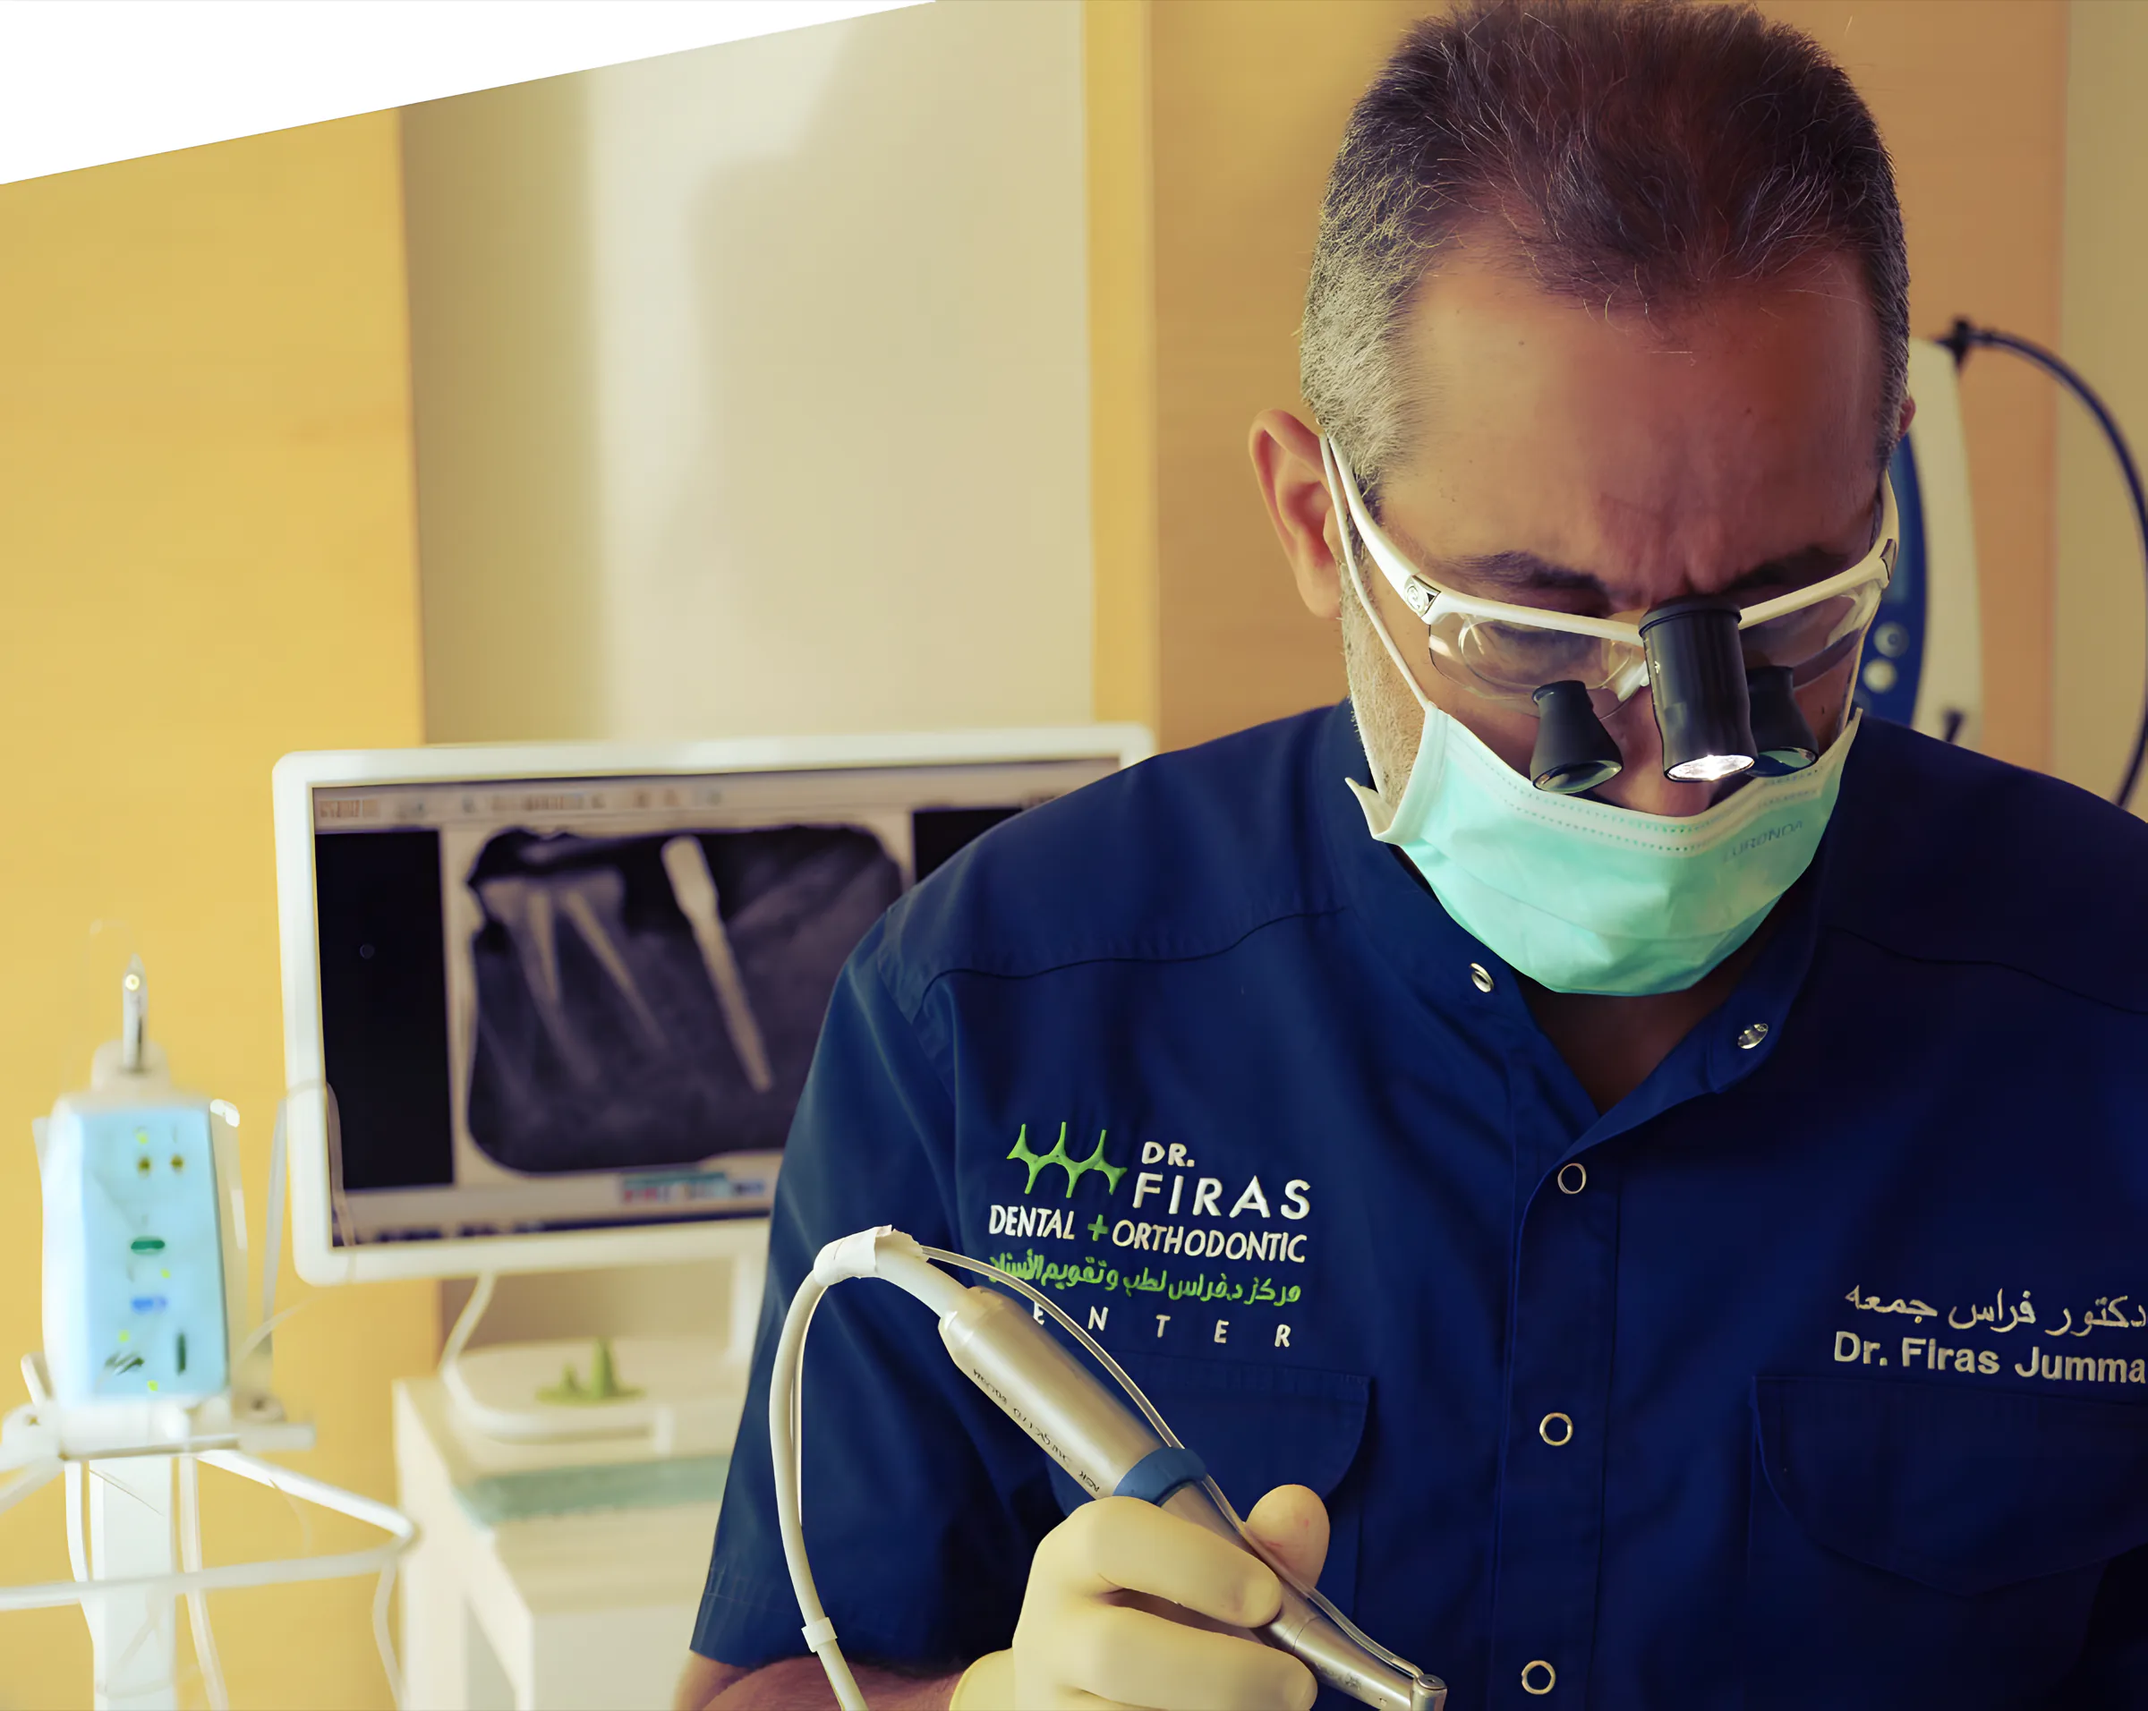
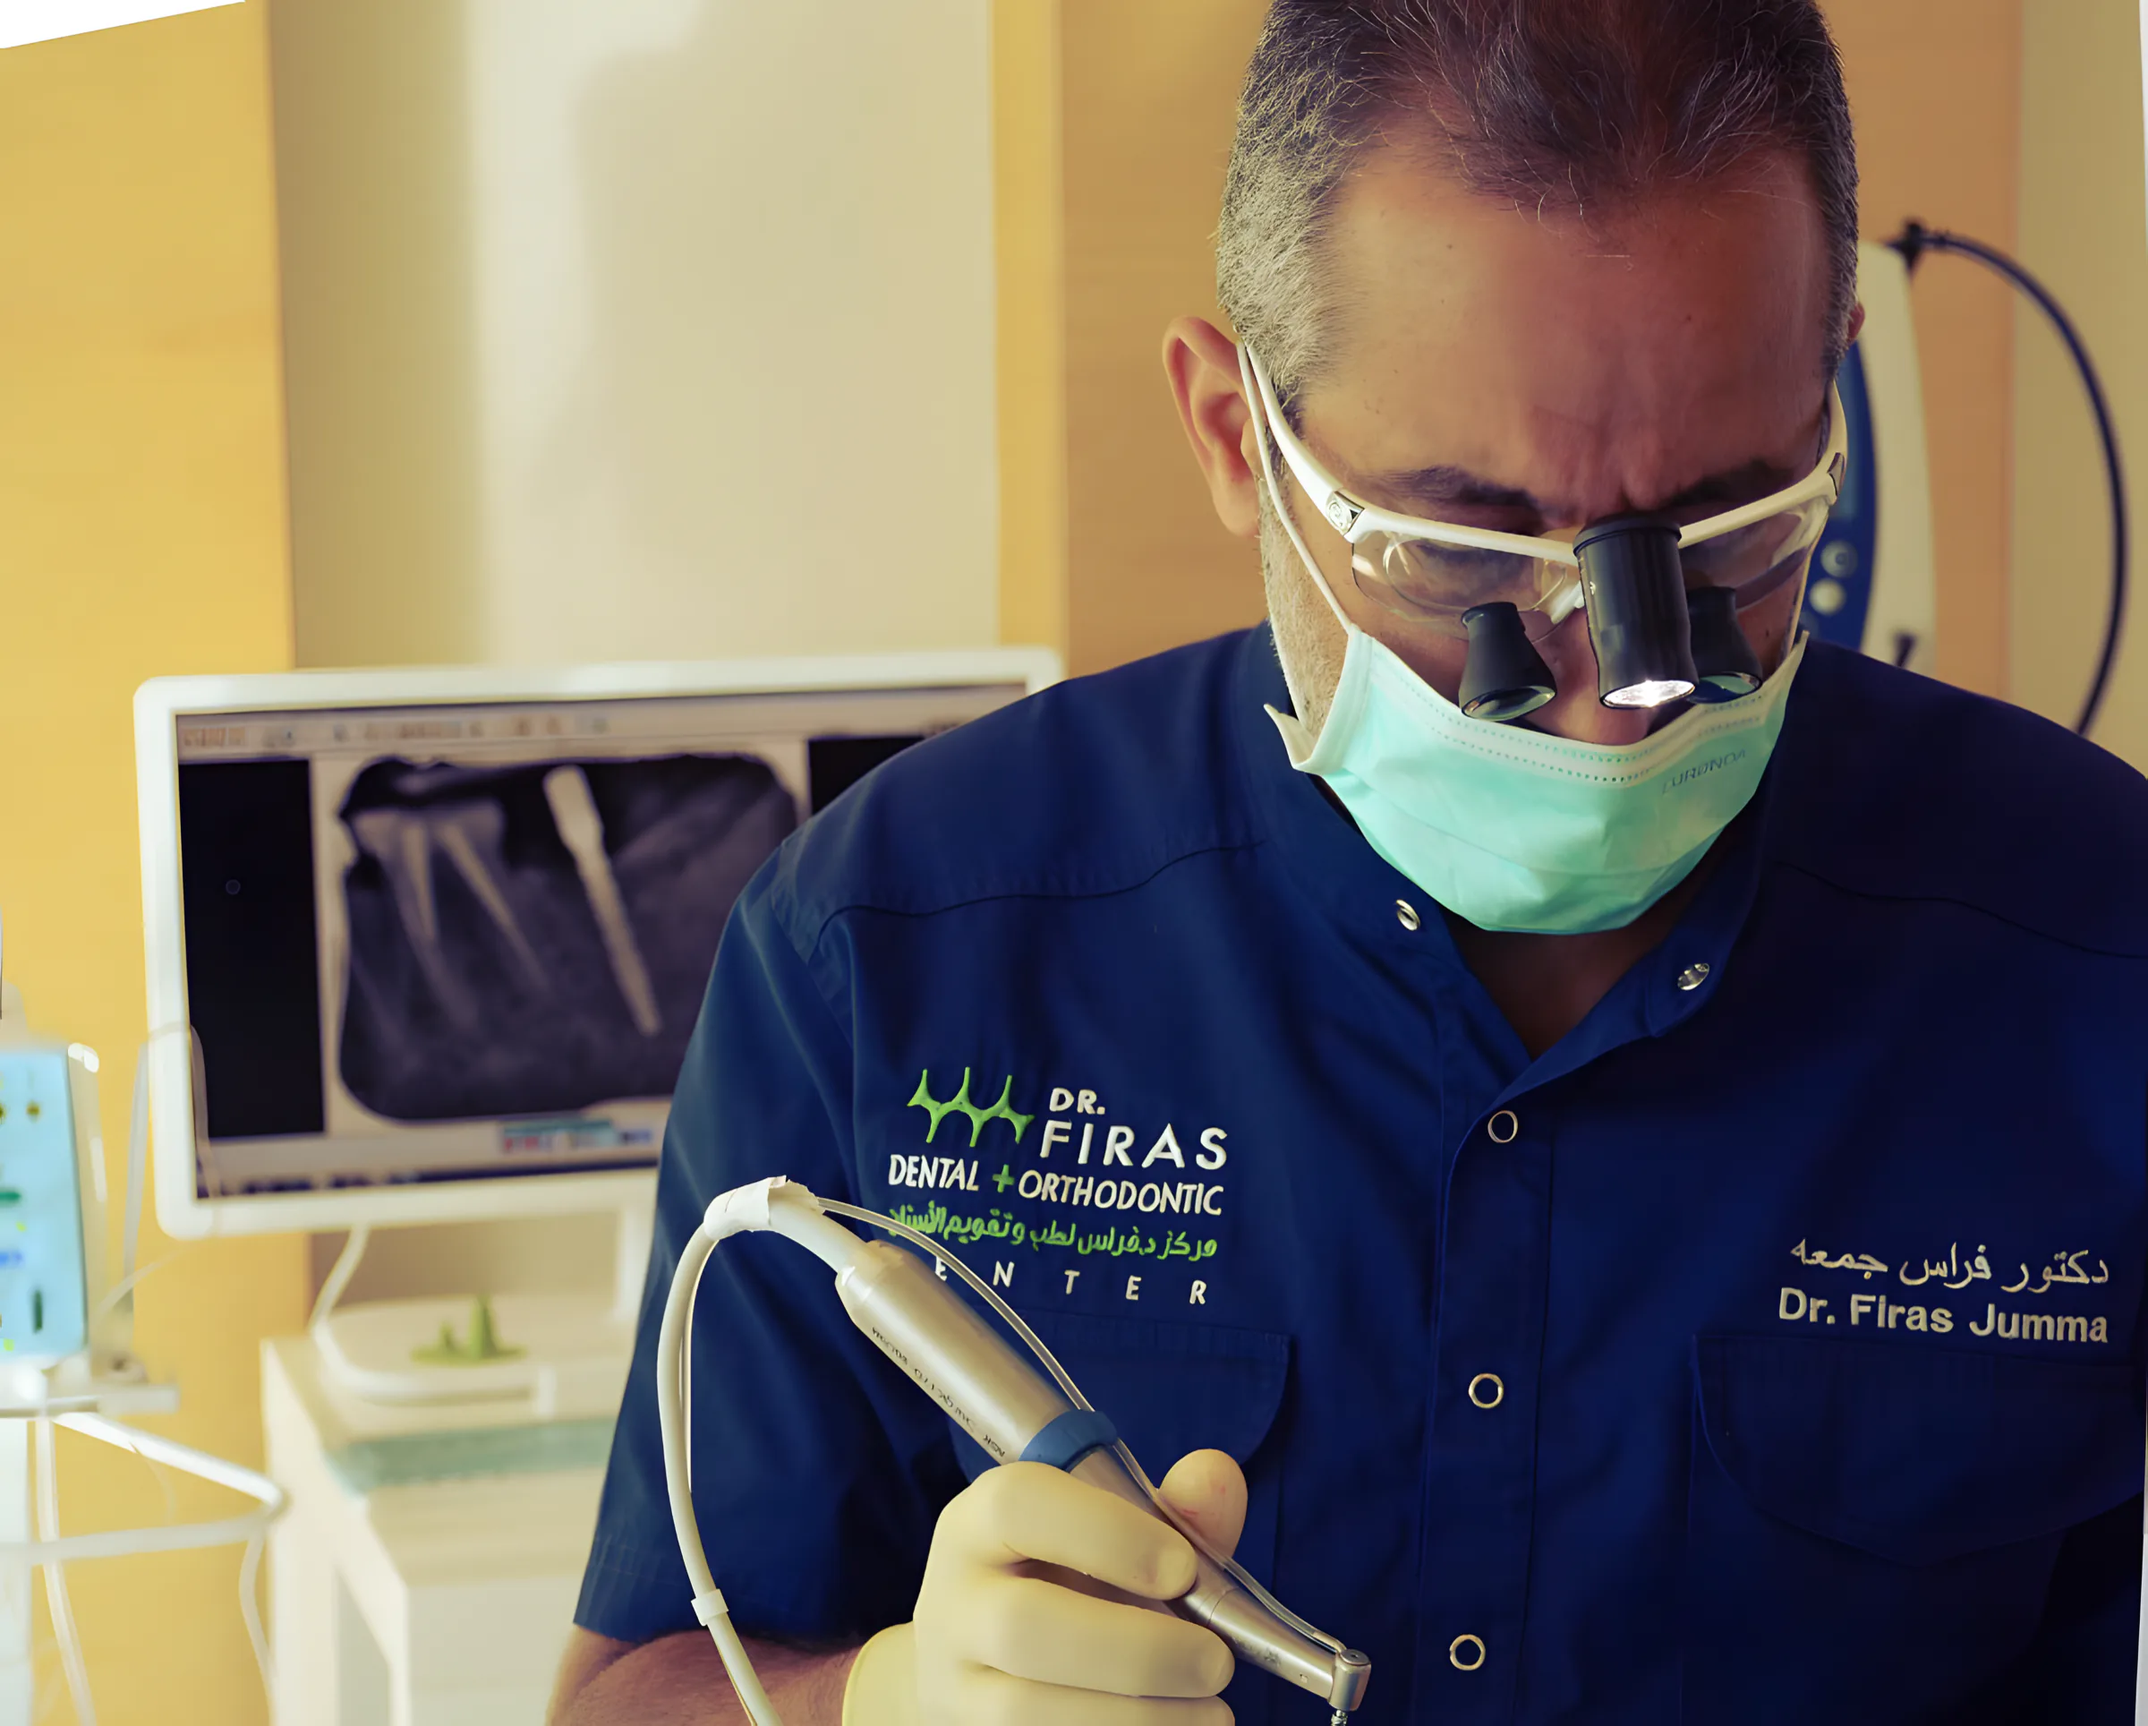
Update concept dr-firas-dental-orthodontic-center 2026-11-24 09:26

diff --git a/dr-firas-dental-orthodontic-center/ar/index.html b/dr-firas-dental-orthodontic-center/ar/index.html
@@ -133,7 +133,7 @@
   <div class="k-story__grid">
     <div class="k-story__media" aria-hidden="true">
       <figure class="is-on" data-k-story-media><img src="../img/dr-firas.webp" alt="" width="1000" height="1500" loading="lazy" style="object-position:50% 22%"></figure>
-      <figure data-k-story-media><img src="../img/dr-firas-work.webp" alt="" width="2400" height="1912" loading="lazy"><figcaption>د. فراس أثناء العمل بالعدسات المكبّرة</figcaption></figure>
+      <figure data-k-story-media><img src="../img/dr-firas-work.webp" alt="" width="2400" height="1929" loading="lazy"><figcaption>د. فراس أثناء العمل بالعدسات المكبّرة</figcaption></figure>
       <figure data-k-story-media><img src="../img/xray-screen.webp" alt="" width="2400" height="1597" loading="lazy"><figcaption>صورة أشعة على الشاشة بجانب الكرسي</figcaption></figure>
       <span class="k-story__prog"></span>
     </div>
@@ -144,7 +144,7 @@
         <p>يعمل د. فراس في زراعة الأسنان منذ أكثر من 20 سنة، منها 10 سنوات في التحميل الفوري. فإذا سمح العظم، تخرج بتاج مؤقت في نفس اليوم.</p>
       </article>
       <article class="k-story__step" data-k-story-step>
-        <div class="k-story__inline"><img src="../img/dr-firas-work.webp" alt="د. فراس يرتدي العدسات المكبّرة والكمامة ويعمل بأداة الأسنان" width="2400" height="1912" loading="lazy"></div>
+        <div class="k-story__inline"><img src="../img/dr-firas-work.webp" alt="د. فراس يرتدي العدسات المكبّرة والكمامة ويعمل بأداة الأسنان" width="2400" height="1929" loading="lazy"></div>
         <span class="k-story__n">02</span><h3>طب الأسنان بالليزر منذ 2005</h3>
         <p>حصل على الماجستير في طب الأسنان بالليزر من جامعة آخن في ألمانيا عام 2005، وكان من أوائل من استخدموا ليزر Er,Cr:YSGG وEr:YAG للأسنان واللثة في الإمارات.</p>
       </article>

diff --git a/dr-firas-dental-orthodontic-center/index.html b/dr-firas-dental-orthodontic-center/index.html
@@ -137,7 +137,7 @@
   <div class="k-story__grid">
     <div class="k-story__media" aria-hidden="true">
       <figure class="is-on" data-k-story-media><img src="img/dr-firas.webp" alt="" width="1000" height="1500" loading="lazy" style="object-position:50% 22%"></figure>
-      <figure data-k-story-media><img src="img/dr-firas-work.webp" alt="" width="2400" height="1912" loading="lazy"><figcaption>Dr. Firas at work, with loupes</figcaption></figure>
+      <figure data-k-story-media><img src="img/dr-firas-work.webp" alt="" width="2400" height="1929" loading="lazy"><figcaption>Dr. Firas at work, with loupes</figcaption></figure>
       <figure data-k-story-media><img src="img/xray-screen.webp" alt="" width="2400" height="1597" loading="lazy"><figcaption>X-ray on screen beside the chair</figcaption></figure>
       <span class="k-story__prog"></span>
     </div>
@@ -148,7 +148,7 @@
         <p>Dr. Firas has placed implants for more than 20 years, and has spent the last 10 on immediate loading. Where the bone allows, you leave with a temporary crown on the same day.</p>
       </article>
       <article class="k-story__step" data-k-story-step>
-        <div class="k-story__inline"><img src="img/dr-firas-work.webp" alt="Dr. Firas wearing loupes and a mask, working with a dental handpiece" width="2400" height="1912" loading="lazy"></div>
+        <div class="k-story__inline"><img src="img/dr-firas-work.webp" alt="Dr. Firas wearing loupes and a mask, working with a dental handpiece" width="2400" height="1929" loading="lazy"></div>
         <span class="k-story__n">02</span><h3>Laser dentistry since 2005</h3>
         <p>He took his Master's in Laser Dentistry at Aachen University in Germany in 2005, and was one of the first in the UAE to use Er,Cr:YSGG and Er:YAG lasers on teeth and gums.</p>
       </article>

diff --git a/dr-firas-dental-orthodontic-center/site.css b/dr-firas-dental-orthodontic-center/site.css
@@ -164,7 +164,7 @@ a{color:inherit}
 .k-story__n{color:var(--navy);font-weight:600;font-size:.9rem}
 .k-story__step h3{font:600 clamp(1.6rem,2.6vw,2.3rem)/1.08 var(--k-display);letter-spacing:-.02em}
 .k-story__step p{color:var(--k-mute)}
-.k-story__step:not(.is-on) :is(h3,.k-story__n){color:#6a7486}
+.k-story__step:not(.is-on) :is(h3,.k-story__n){color:#525c6f}
 .k-story__media{border-radius:4px;background:#d5dde6}
 .k-story__media .k-story__prog{background:var(--lime);height:5px}
 .k-story__media figcaption{position:absolute;left:16px;bottom:18px;color:#fff;font-size:.82rem;text-shadow:0 1px 12px rgba(0,0,0,.6);z-index:2}
@@ -351,3 +351,15 @@ html:lang(ar) .facts h3,html:lang(ar) .tlist b{line-height:1.5}
   .tlist a,.tlist a:hover{transition:none;padding-inline-start:0}
   .clinics__tab .bar{transition:none}
 }
+@media (max-width:700px){.k-drag__btns{display:none}}
+.svc__who li{display:grid;grid-template-columns:52px minmax(0,1fr);column-gap:14px;align-items:center}
+.svc__who li>img,.svc__who li>.mono{grid-row:1/3}
+.svc__who li small{grid-column:2}
+html[dir=ltr] .ftr__ar{text-align:left}
+.hdr__logo{min-height:48px}
+.ftr ul a{padding-block:10px;min-height:44px}
+.panel dd a{padding-block:10px}
+.hero__alt a{padding-block:12px}
+.k-visit__more a{padding-block:10px}
+@media (max-width:900px){.svc__act a.k-link,.drag__foot a,.story__note a,.intro a{display:inline-block;padding-block:10px}}
+.ftr ul a{min-width:44px}
